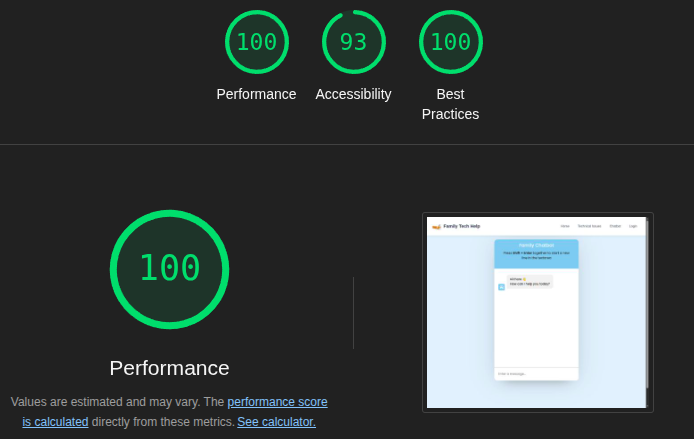
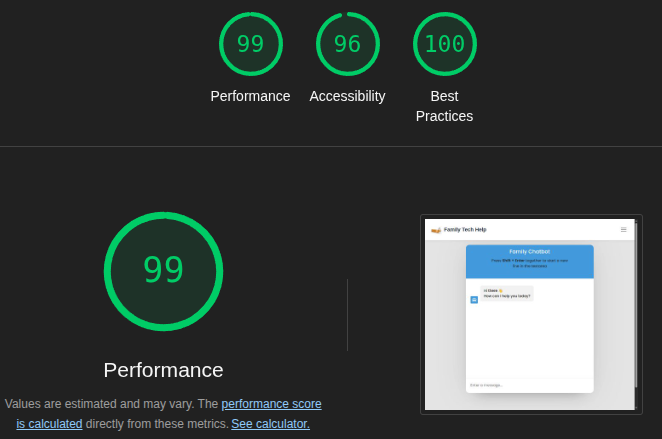
update validation images on readme

diff --git a/README.md b/README.md
@@ -432,12 +432,20 @@ Used [W3C Markup Validation Service](https://validator.w3.org/#validate_by_input
 Used [W3C CSS Validation Service](https://jigsaw.w3.org/css-validator/#validate_by_input) to test CSS style and no errors found.
 
   <img src="docs/css-validation.png">
+  <img src="docs/css-validation-authentication.png">
 
 ### Lighthouse Audit
 
 Used Chrome Dev Tools Lighthouse to audit the site for response time and accessibility, as you can see onm the examples bellow.<br>
 <details>
-  <img src="">
+  <img src="docs/lighthouse-homepage.png">
+  <img src="docs/lighthouse-laptop.png">
+  <img src="docs/lighthouse-login.png">
+  <img src="docs/lighthouse-mobilde-devices.png">
+  <img src="docs/lighthouse-profile.png">
+  <img src="docs/lighthouse-technical-issues.png">
+  <img src="docs/lighthouse-chatbot.png">
+  <img src="docs/lighthouse-bookmarks.png">
 </details>
 
 [Back to top](#top)
@@ -450,9 +458,6 @@ Website manually tested on the following devices/browsers for responsiveness:
   - Vivaldi
   - Samsung Galaxy A40
   - Google Pixel 8
-  - iPhone 16
-  - iPad
-  - Samsung Galaxy
 
 [Back to top](#top)
 
